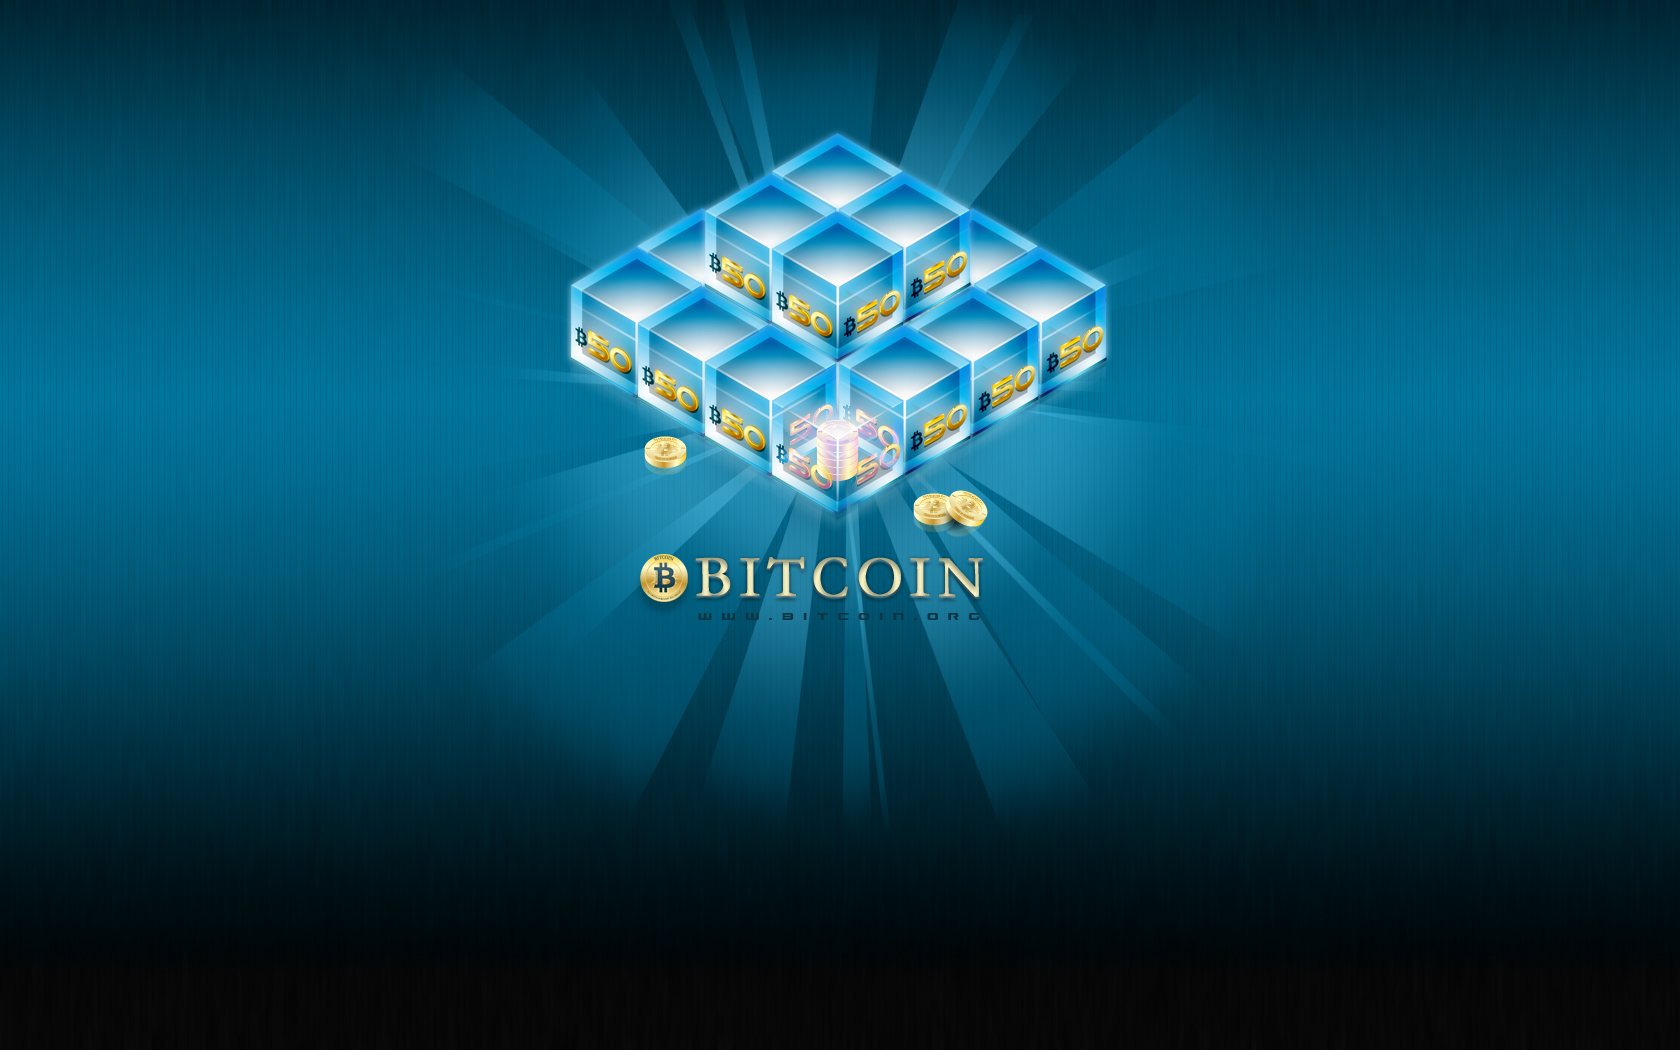
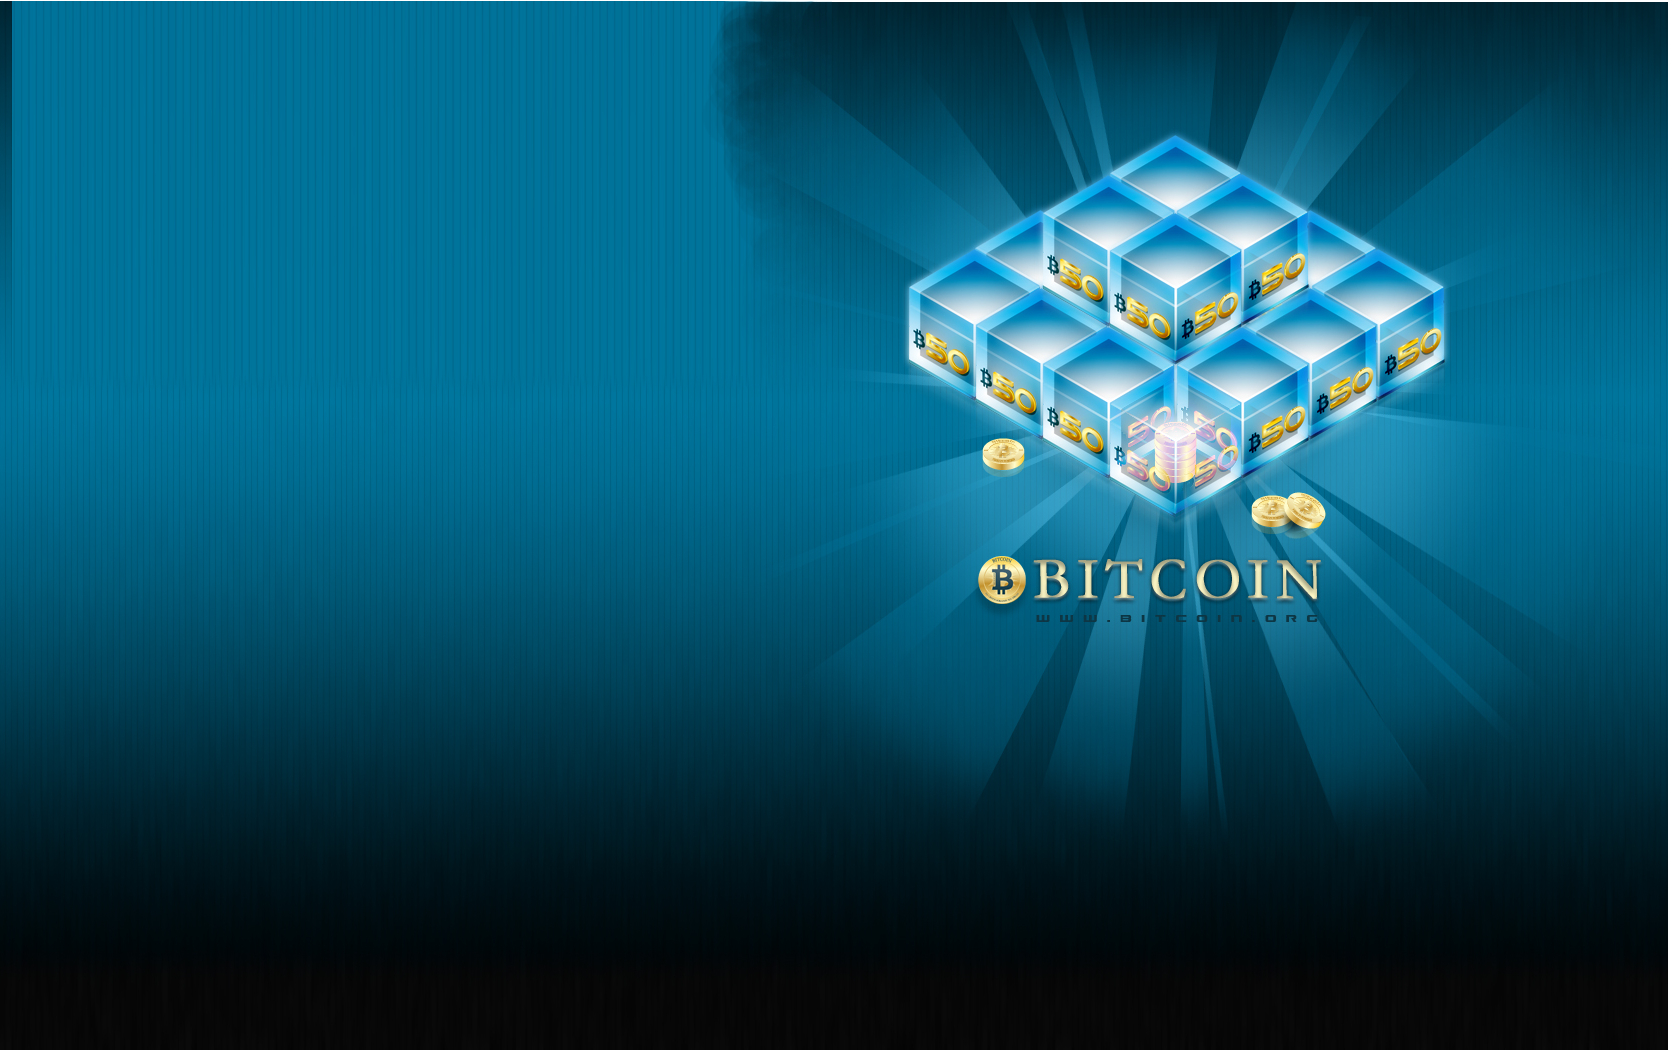
No Bugs

diff --git a/css/mainstyle.css b/css/mainstyle.css
@@ -7,7 +7,7 @@
 body{
 	background-color:#FFFFCC;
 	background-image:url(/images/background.jpg);
-	background-position:25em 0;
+	background-position:13em 8em;
 	color:#FFF;
 	
 	height:100%
@@ -24,7 +24,7 @@ body{
 
 	/*--Menu Box--*/
 		#menuBar{
-			background-image:url(/images/contentBg-header.png);
+			background-image:url(/images/contentBg.png);
 			background-color:#1874CD;
 			width: 100%;
 			height:2.5em;
@@ -52,7 +52,7 @@ body{
 			left:-1em;
 			float:left;
 			background-color:#104E8B;
-			background-image:url(/images/contentBg-header.png);
+			background-image:url(/images/contentBg.png);
 			width:15em;
 			height: 100%;
 			margin-left:1em;
@@ -83,7 +83,7 @@ body{
 			left:-1em;
 			float:left;
 			background-color:#104E8B;
-			background-image:url(/images/contentBg-header.png);
+			background-image:url(/images/contentBg.png);
 			width:15em;
 			height: 100%;
 			margin-left:1em;
@@ -93,7 +93,7 @@ body{
 	/*--Blog Post--*/
 		.blogPost{
 			width:56%;
-			
+			padding-top:1.5em;
 			/*background-image:url(/images/contentBg-header.png);*/
 		}
 		
@@ -101,7 +101,7 @@ body{
 		#footer{
 			width:56%;
 			text-align:center;
-			margin-top:2.5em;
+			margin-top:3.5em;
 			/*background-image:url(/images/contentBg-header.png);*/
 		}
 
@@ -159,4 +159,10 @@ body{
 			font-weight:bold;
 			font-size:1.5em;
 			text-align:center;
+		}
+		
+	/*--Login Messages--*/
+		.loginMessages{
+			padding:3em;
+			font-size:1.5em;
 		}

diff --git a/req/functions.php b/req/functions.php
@@ -23,7 +23,7 @@ $fromAddress = "Localhost@Localhost.com";
 //Bitcoind RPC information
 $rpcType	= "http";
 $rpcUsername	= "xenland";
-$rpcPassword 	= "fuckyou";
+$rpcPassword 	= "fuckyou"; //I dont purposely put this to offend anyone, its just easy to remember
 $rpcHost	= "localhost";
 
 
@@ -55,6 +55,7 @@ function connectToDb(){
 
 
 function loginUser($username, $password){
+		$loginSuccess = 0;
 	//Make global
 		global $cookieName, $cookiePath, $cookieDomain;
 
@@ -63,20 +64,17 @@ function loginUser($username, $password){
 
 	//mysql injection protection
 		$username = mysql_real_escape_string($username);
-		$password = mysql_real_escape_string($password);
 
 	//Hash password for password checking
 		$password = hash("sha256", $password);
-
 	//Check if this login an username is correct
-		$loginCheckQ	= mysql_query("SELECT `id`, `emailAuthorised` FROM `websiteUsers` WHERE `username` = '".$username."' AND `password` = '".$password."' LIMIT 0,1");
-		$loginSuccess	= mysql_num_rows($loginCheckQ);
+
+		$loginCheckQ	= mysql_query("SELECT `id`, `emailAuthorised` FROM `websiteUsers` WHERE `username` = '".$username."' AND `password` = '".$password."' LIMIT 0,1")or die(mysql_error());
 		$loginObj	= mysql_fetch_object($loginCheckQ);
 		$userId 	= $loginObj->id;
 		$emailAuthorised = $loginObj->emailAuthorised;
 
 	//Set cookie; If validlogin is true
-		if($loginSuccess == 1){
 			if($emailAuthorised == 1){
 				//Get ip address so we can hash with the cookie
 					$ip = $_SERVER['REMOTE_ADDR'];
@@ -94,15 +92,19 @@ function loginUser($username, $password){
 					//Get hashed password for hashing the cookie
 						$getPassQ = mysql_query("SELECT `password` FROM `websiteUsers` WHERE `id` = '".$userId."'");
 						$getPassObj = mysql_fetch_object($getPassQ);
-					$hash		= $randomSecret.$password.$ip.$timeoutStamp;
-					$hash = hash("sha256", $hash);
-					//Make cookie :)
-					setcookie($cookieName, $userId."-".$hash, $timeoutStamp, $cookiePath, $cookieDomain);
-			}else if(!$emailAuthorised){
-				$loginSuccess = -1;
-			}
-		}
 
+					//Make cookie :)
+						$hash	= $randomSecret.$password.$ip.$timeoutStamp;
+						$hash = hash("sha256", $hash);
+						setcookie($cookieName, $userId."-".$hash, $timeoutStamp, $cookiePath, $cookieDomain);
+
+				//Successfull login code
+					$loginSuccess = 1;
+
+			}else if($emailAuthorised == 0){
+
+				$loginSuccess = 3;
+			}
 	//Return Boolean;
 		return $loginSuccess;
 }
@@ -251,6 +253,8 @@ function getCashoutMin(){
 
 
 function activateAccount($userId, $authPin){
+		$detailsMatch = 0;
+
 	//Connect to database
 		connectToDb();
 
@@ -268,7 +272,7 @@ function activateAccount($userId, $authPin){
 			//Activate this account
 				mysql_query("UPDATE `websiteUsers` SET `emailAuthorised` = '1' WHERE `id` = '$userId'");
 		}
-	return $detailsMatch."-".$emailAuthPin;
+	return $detailsMatch;
 }
 
 ////////////// Content Output ////////////////////////////////////////////////////////////

diff --git a/register.php b/register.php
@@ -146,14 +146,46 @@
 							
 							<form action="/register.php" method="post">
 								<input type="hidden" name="act" value="signup"/>
-								Username:<input type="text" name="username" value="<?php echo $_POST["username"];?> " maxlength="20" size="10"/><br/>
-								Password:<input type="password" name="password" value="<?php echo $_POST["password"];?> " maxlength="45" size="10"/><br/>
-								Retype Password:<input type="password" name="password2" value="<?php echo $_POST["password2"];?> " maxlength="45" size="10"/><br/>
+								<?php
+									if($_POST["username"]){
+										$tmpUsername	= $_POST["username"];
+									}else{
+										$tmpUsername 	= "";
+									}
+									if($_POST["password"]){
+										$tmpPassword	= $_POST["password"];
+									}else{
+										$tmpPassword	= NULL;
+									}
+									if($_POST["password2"]){
+										$tmpPassword2	= $_POST["password2"];
+									}else{
+										$tmpPassword2	= "";
+									}
+									if($_POST["email"]){
+										$tmpEmail	= $_POST["email"];
+									}else{
+										$tmpEmail	= "";
+									}
+									if($_POST["email2"]){
+										$tmpEmail2	= $_POST["email2"];
+									}else{
+										$tmpEmail2	= "";
+									}
+									if($_POST["authPin"]){
+										$tmpAuthPin	= $_POST["authPin"];
+									}else{
+										$tmpAuthPin	= "";
+									}
+								?>
+								Username:<input type="text" name="username" value="<?php echo $tmpUsername; ?>" maxlength="20" size="10"/><br/>
+								Password:<input type="password" name="password" value="<?php echo $tmpPassword;?>" maxlength="45" size="10"/><br/>
+								Retype Password:<input type="password" name="password2" value="<?php echo $tmpPassword2;?>" maxlength="45" size="10"/><br/>
 								<hr size="1" width="100%"><br/>
-								Real Email: <input type="text" name="email" value="<?php echo $_POST["email"];?> " size="15"/><br/>
-								Retype Email: <input type="text" name="email2" value="<?php echo $_POST["email2"];?> " size="15"/><br/>
+								Real Email: <input type="text" name="email" value="<?php echo $tmpEmail;?>" size="15"/><br/>
+								Retype Email: <input type="text" name="email2" value="<?php echo $tmpEmail2;?>" size="15"/><br/>
 								<hr size="1" width="100%"><br/>
-								Authorization Pin: <input type="password" name="authPin" value="<?php echo $_POST["authPin"];?> " size="4" maxlength="4">(Memorize this 4 digit pin #)<br/>
+								Authorization Pin: <input type="password" name="authPin" value="<?php echo $tmpAuthPin;?>" size="4" maxlength="4">(Memorize this 4 digit pin #)<br/>
 								<input type="submit" value="Register">
 							</form>
 					<?php

diff --git a/login.php b/login.php
@@ -8,20 +8,28 @@
 	include($functions);
 
 //Perform login
-	$loginSuccess =  loginUser($_POST["username"], $_POST["password"]);
+	$loginSuccess = loginUser($_POST["username"], $_POST["password"]);
 
 //Generate message
 	if($loginSuccess == 1){
-		$goodMessage = "Welcome back, Were redirecting you to the main page right meow. Just sit tight.";
-	}
+		$goodMessage = "Welcome back!, <br/>".$_POST["username"];
+		//Set user details for userInfo box
+			$getCredientials	= new getCredientials;
+			$loginSuccess		= $getCredientials->checkLogin($_COOKIE[$cookieName]);
 
-	if($loginSuccess == 0){
-		$returnError = "Login failed - wrong username or password";
-	}
+	}else if($loginSuccess == 0){
 
-	if($loginSuccess == -1){
+		$returnError = "LOGIN FAILED | WHAT DID YOU DO!?";
+
+	}else if($loginSuccess == 3){
+
 		$returnError = " Login failed - You haven't authorised your email account yet";
+	}else  if($loginSuccess == 4){
+
+			$returnError = "Login failed | You forgot your user name or password";
 	}
+
+
 ?>
 <html>
 	<head>
@@ -51,8 +59,15 @@
 			////////////////////////////
 			?>
 			<div id="bodyContent">
+				<?php 
+				//Ouput the login or the users stats depending on weather or not they are logged in
+				include($userInfoBox); 
+				/////////////////////////////////////
+				?>
+				<div class="loginMessages">
 					<span class="returnError"><?php echo $returnError;?></span>
 					<span class="goodMessage"><?php echo $goodMessage;?></span>
+				</div>
 			</div>
 		</div>
 	</body>
